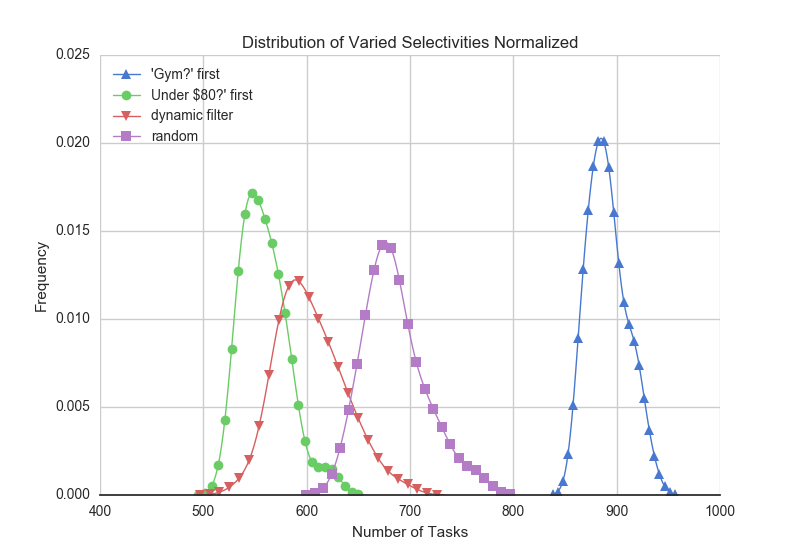
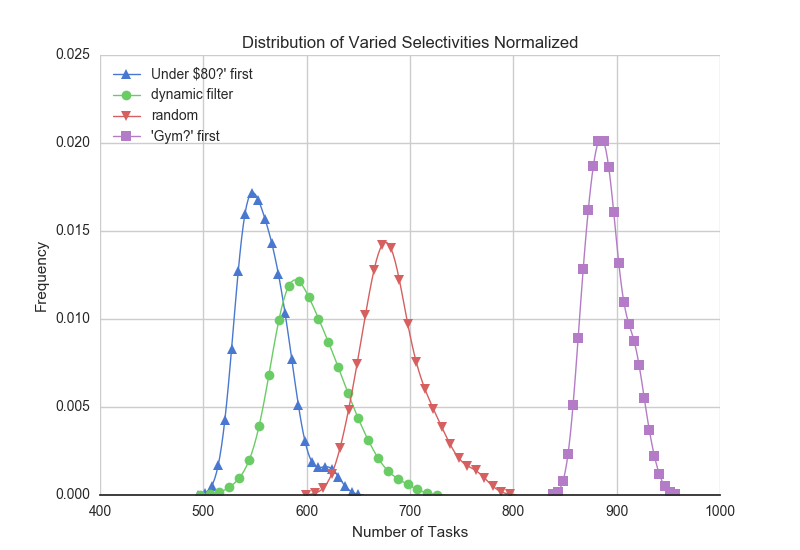
update order/color of plot distribution of selectivities normalized

diff --git a/dynamicfiltersite_summer2016/dynamicfilterapp/simulation_files/plotScript_andys_gen_dist_of_varied_selectivities_normalized.py b/dynamicfiltersite_summer2016/dynamicfilterapp/simulation_files/plotScript_andys_gen_dist_of_varied_selectivities_normalized.py
@@ -1,4 +1,4 @@
-# run with python plotScript_alg_hist.py 0first_hotel_0_1.csv 1first_hotel_1_3.csv queue_eddy_hotel_0_1.csv random_hotel_0_1.csv ;open graphs/andys_dist_of_varied_selectivities_normalized.png 
+# run with python plotScript_andys_gen_dist_of_varied_selectivities_normalized.py; open graphs/andys_dist_of_varied_selectivities_normalized.png 
 
 import numpy as np
 import matplotlib.pyplot as plt
@@ -6,10 +6,14 @@ import seaborn as sns
 import pylab
 import sys
 
+csv_files = ["1first_hotel_1_3.csv",      \
+             "queue_eddy_hotel_0_1.csv",  \
+             "random_hotel_0_1.csv",      \
+             "0first_hotel_0_1.csv"]
+
 num_tasks_array = []
-for i in range(1,5):
-	num_tasks_array.append(list(np.loadtxt(sys.argv[i], delimiter=',')))
-	print "appending " + sys.argv[i]
+for i in range(0,4):
+	num_tasks_array.append(list(np.loadtxt(csv_files[i], delimiter=',')))
 
 sns.set(style="white", palette="muted", color_codes=False)
 
@@ -18,7 +22,7 @@ ax = fig.add_subplot(111)
 sns.despine(left=True)
 
 # the histogram of the data
-alg_list = ["'Gym?' first", "Under $80?' first", "dynamic filter", "random"]
+alg_list = ["Under $80?' first", "dynamic filter", "random", "'Gym?' first"]
 linestyles=["-","-","-","-"]
 markers=["^","o","v","s"]
 for i in range(len(num_tasks_array)):
